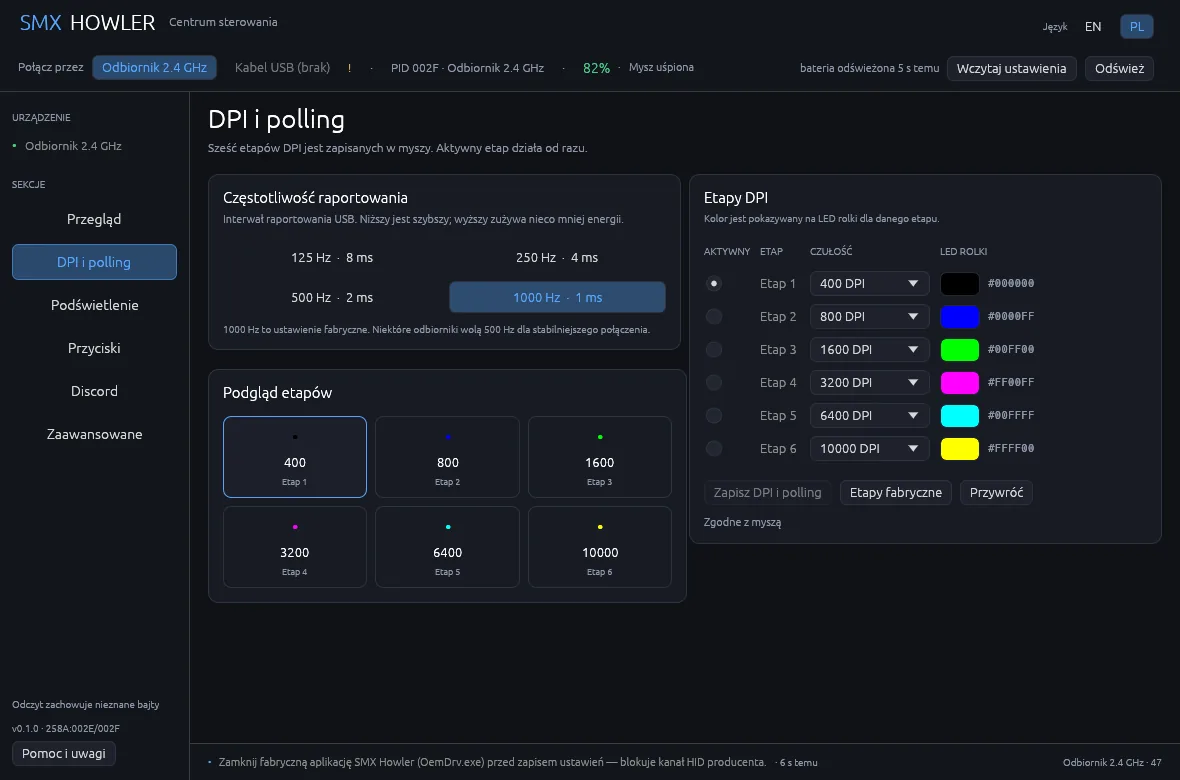
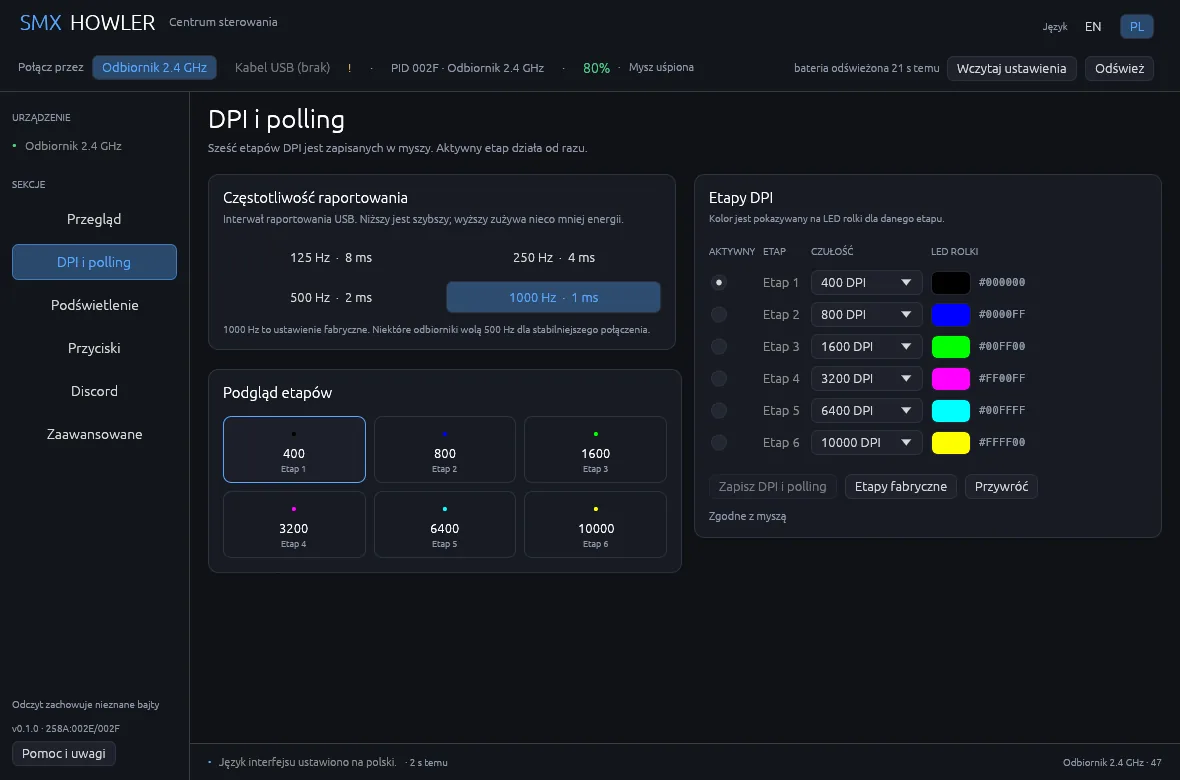
Refine effect picker and DPI layout spacing

diff --git a/src/app.rs b/src/app.rs
@@ -1106,7 +1106,11 @@ impl HowlerApp {
             ),
         );
 
+        let column_spacing = ui.spacing().item_spacing.x;
+        ui.spacing_mut().item_spacing.x = 18.0;
         ui.columns(2, |cols| {
+            cols[0].spacing_mut().item_spacing.x = column_spacing;
+            cols[1].spacing_mut().item_spacing.x = column_spacing;
             card(&mut cols[0], |ui| {
                 ui.set_min_width(ui.available_width());
                 ui.label(
@@ -1177,7 +1181,7 @@ impl HowlerApp {
                 ui.add_space(8.0);
                 egui::Grid::new("dpi_stages")
                     .num_columns(4)
-                    .spacing([10.0, 8.0])
+                    .spacing([8.0, 7.0])
                     .show(ui, |ui| {
                         ui.label(
                             RichText::new(tr("ACTIVE", "AKTYWNY"))
@@ -1207,7 +1211,7 @@ impl HowlerApp {
 
                             let mut current = self.draft.stages[index].dpi_index;
                             egui::ComboBox::from_id_salt(("dpi_stage", index))
-                                .width(120.0)
+                                .width(112.0)
                                 .selected_text(format!("{} DPI", self.draft.stages[index].dpi()))
                                 .show_ui(ui, |ui| {
                                     for (dpi_index, value) in DPI_VALUES.iter().enumerate() {
@@ -1301,16 +1305,17 @@ impl HowlerApp {
                                     if selected { ACCENT } else { CARD_STROKE },
                                 ))
                                 .corner_radius(8)
-                                .inner_margin(Margin::same(10))
+                                .inner_margin(Margin::same(8))
                                 .show(ui, |ui| {
-                                    ui.set_width((cell_width - 20.0).max(1.0));
+                                    ui.set_width((cell_width - 16.0).max(1.0));
+                                    ui.spacing_mut().item_spacing.y = 3.0;
                                     ui.vertical_centered(|ui| {
                                         let dot = Color32::from_rgb(
                                             stage.color[0],
                                             stage.color[1],
                                             stage.color[2],
                                         );
-                                        ui.label(RichText::new("•").size(18.0).color(dot));
+                                        ui.label(RichText::new("•").size(16.0).color(dot));
                                         ui.label(
                                             RichText::new(format!("{}", stage.dpi())).strong(),
                                         );
@@ -1332,6 +1337,7 @@ impl HowlerApp {
                     });
             });
         });
+        ui.spacing_mut().item_spacing.x = column_spacing;
     }
 
     // -----------------------------------------------------------------
@@ -1348,24 +1354,24 @@ impl HowlerApp {
             ),
         );
 
+        let column_spacing = ui.spacing().item_spacing.x;
+        ui.spacing_mut().item_spacing.x = 18.0;
         ui.columns(2, |cols| {
+            cols[0].spacing_mut().item_spacing.x = column_spacing;
+            cols[1].spacing_mut().item_spacing.x = column_spacing;
             card(&mut cols[0], |ui| {
                 ui.set_min_width(ui.available_width());
                 ui.label(RichText::new(tr("Effect", "Efekt")).size(15.0).strong());
                 ui.add_space(8.0);
-                let width = (ui.available_width() - 12.0) / 2.0;
+                let width = (ui.available_width() - 10.0) / 2.0;
                 egui::Grid::new("effect_grid")
                     .num_columns(2)
                     .spacing([10.0, 8.0])
                     .show(ui, |ui| {
                         for code in 0..EFFECT_COUNT {
                             let selected = self.draft.effect == code;
-                            let label = format!("{}  {}", code, effect_name(code));
-                            let response = ui.add_sized(
-                                [width, 30.0],
-                                egui::Button::selectable(selected, RichText::new(label).size(13.0)),
-                            );
-                            let response = response.on_hover_text(effect_description(code));
+                            let response =
+                                effect_button(ui, code, effect_name(code), selected, width);
                             if response.clicked() {
                                 self.draft.effect = code;
                             }
@@ -1522,6 +1528,7 @@ impl HowlerApp {
                 }
             });
         });
+        ui.spacing_mut().item_spacing.x = column_spacing;
     }
 
     // -----------------------------------------------------------------
@@ -3043,6 +3050,67 @@ fn error_banner(ui: &mut egui::Ui, text: &str) {
         });
 }
 
+fn effect_button(
+    ui: &mut egui::Ui,
+    code: u8,
+    name: &str,
+    selected: bool,
+    width: f32,
+) -> egui::Response {
+    let (rect, response) = ui.allocate_exact_size(egui::vec2(width, 32.0), egui::Sense::click());
+    let (fill, stroke, badge_fill, badge_text, text_color) = {
+        let visuals = ui.visuals();
+        if selected {
+            (
+                visuals.selection.bg_fill,
+                visuals.selection.stroke,
+                ACCENT,
+                BG,
+                Color32::WHITE,
+            )
+        } else if response.hovered() {
+            (
+                visuals.widgets.hovered.weak_bg_fill,
+                visuals.widgets.hovered.bg_stroke,
+                ACCENT.gamma_multiply(0.18),
+                ACCENT,
+                visuals.text_color(),
+            )
+        } else {
+            (
+                visuals.widgets.inactive.weak_bg_fill,
+                Stroke::new(1.0, CARD_STROKE),
+                ACCENT.gamma_multiply(0.18),
+                ACCENT,
+                visuals.text_color(),
+            )
+        }
+    };
+
+    ui.painter()
+        .rect(rect, 8.0, fill, stroke, egui::StrokeKind::Inside);
+    let badge = egui::Rect::from_min_size(rect.min + egui::vec2(7.0, 6.0), egui::vec2(20.0, 20.0));
+    ui.painter().rect_filled(badge, 6.0, badge_fill);
+    ui.painter().text(
+        badge.center(),
+        egui::Align2::CENTER_CENTER,
+        code.to_string(),
+        egui::FontId::proportional(11.0),
+        badge_text,
+    );
+    ui.painter().text(
+        egui::pos2(badge.right() + 8.0, rect.center().y),
+        egui::Align2::LEFT_CENTER,
+        name,
+        egui::FontId::proportional(12.5),
+        text_color,
+    );
+
+    response
+        .on_hover_cursor(egui::CursorIcon::PointingHand)
+        .on_hover_text(effect_description(code))
+}
+
 fn level_selector(ui: &mut egui::Ui, label: &str, value: &mut u8) {
     let label = match label {
         "Brightness" => tr("Brightness", "Jasność"),
@@ -3078,20 +3146,29 @@ fn level_selector(ui: &mut egui::Ui, label: &str, value: &mut u8) {
 
 fn palette_editor(ui: &mut egui::Ui, colors: &mut [[u8; 3]; 7]) {
     ui.horizontal_wrapped(|ui| {
+        ui.spacing_mut().item_spacing.x = 10.0;
         for (index, color) in colors.iter_mut().enumerate() {
             ui.allocate_ui_with_layout(
-                egui::vec2(40.0, 42.0),
+                egui::vec2(40.0, 44.0),
                 Layout::top_down(Align::Center),
                 |ui| {
+                    ui.spacing_mut().item_spacing.y = 3.0;
                     ui.color_edit_button_srgb(color);
-                    ui.label(
-                        RichText::new(format!("{}", index + 1))
-                            .size(9.0)
-                            .color(MUTED),
-                    );
+                    egui::Frame::new()
+                        .fill(ACCENT.gamma_multiply(0.18))
+                        .stroke(Stroke::new(1.0, ACCENT.gamma_multiply(0.35)))
+                        .corner_radius(6)
+                        .inner_margin(Margin::symmetric(6, 1))
+                        .show(ui, |ui| {
+                            ui.label(
+                                RichText::new(format!("{}", index + 1))
+                                    .size(9.5)
+                                    .strong()
+                                    .color(ACCENT),
+                            );
+                        });
                 },
             );
-            ui.add_space(4.0);
         }
     });
 }
